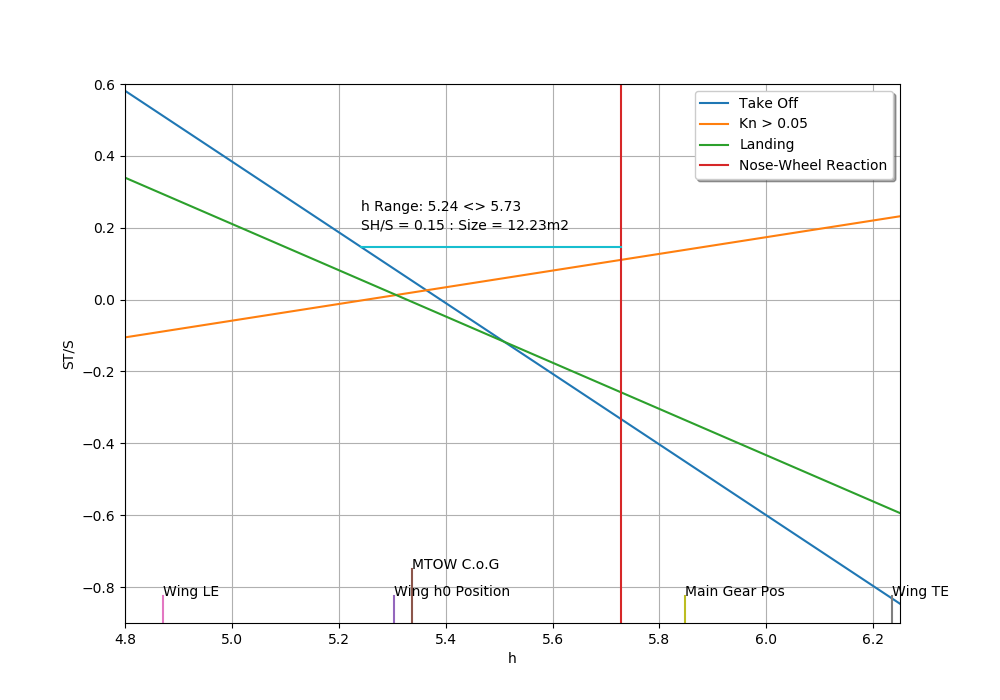
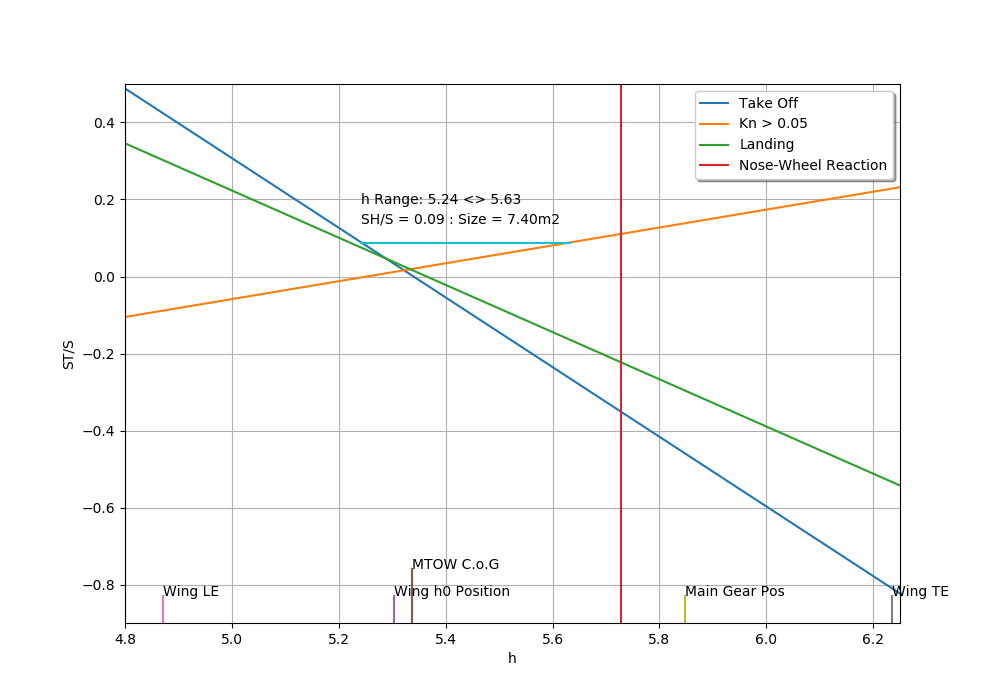
Use full linked values

diff --git a/scissorplot.py b/scissorplot.py
@@ -53,13 +53,13 @@ def myfloor(x, base):
 
 # Key Aircraft Params
 c_bar = cad_file['Interface']['B53'].value
-maxthrust = 44459 * 2  # N @ takoff
+maxthrust = cad_file['Interface']['F28'].value * 2  # N @ takoff
 vto = 62.4  # m/s
 cthrust = maxthrust / qS(vto)
-cm0 = -0.0663
-cl_to = 2.678
+cm0 = cad_file['Interface']['F29'].value
+cl_to = cad_file['Interface']['F30'].value
 clt = -0.9  # Tail CL
-mtow = 35590  # kg
+mtow = cad_file['Interface']['F31'].value  # kg
 g = 9.81  # m/s/s
 h0 = cad_file['Interface']['B54'].value
 print("h0 = " + str(h0))
